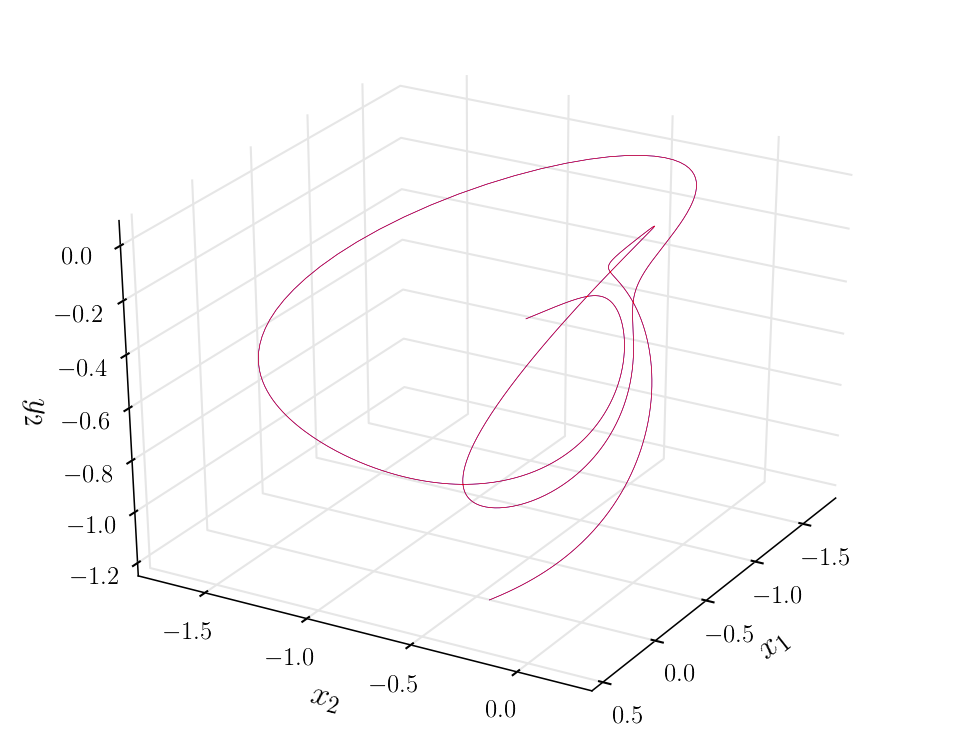
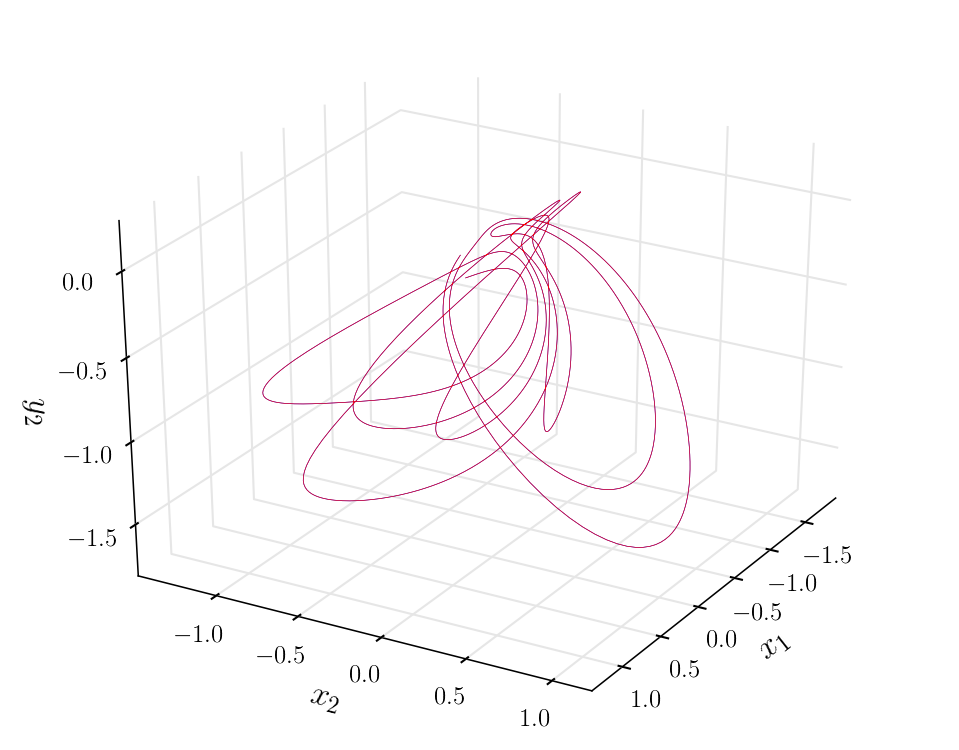
found 50 rpo, committing code and data

diff --git a/blog/burak/PorterKnobloch/python/psectandretmap.py b/blog/burak/PorterKnobloch/python/psectandretmap.py
@@ -13,7 +13,7 @@
 import numpy as np
 from scipy import interpolate, integrate
 from scipy.misc import derivative
-from scipy.optimize import newton
+from scipy.optimize import newton, fsolve
 
 from pylab import figure, plot, xlabel, ylabel, grid, hold, legend, title, savefig
 from matplotlib.font_manager import FontProperties
@@ -51,14 +51,25 @@ if compute:
 else:
 	ps = np.loadtxt('data/psectslice.dat')
 
-#Write non-zero values on a (:,3) array:
-ps3D = np.array([ps[:,1], ps[:,3], ps[:,4]],float).transpose()
-#Calculate positions relative to the section point:
-psrel = ps3D -  sectp3D
 #Generate the matrix with the basis of Poincare section hyperplane:
-psectbasis = np.array([unstabledir,vaux,nhat3D],float)
-#Project Poincare section onto section basis:
-psectprojected = np.dot(psectbasis,psrel.transpose()).transpose()
+psbasis = np.array([unstabledir,vaux,nhat3D],float)	
+
+def psxhat2ps2D(ps, psectbasis):
+		
+	#Write non-zero values on a (:,3) array:
+	if np.size(ps, 0)==5:
+		ps3D = np.array([ps[1], ps[3], ps[4]],float)
+	else:
+		ps3D = np.array([ps[:,1], ps[:,3], ps[:,4]],float).transpose()
+		
+	#Calculate positions relative to the section point:
+	psrel = ps3D -  sectp3D
+	#Project Poincare section onto section basis:
+	psectprojected = np.dot(psectbasis,psrel.transpose()).transpose()
+	
+	return psectprojected
+
+psectprojected = psxhat2ps2D(ps, psbasis)
 
 sortedindices = np.argsort(psectprojected[:,0])
 psectsorted = np.array(psectprojected[sortedindices, :],float)
@@ -181,7 +192,7 @@ def psrelproj2xhat(pxrel, pyrel):
 	'''
 	psrelproj3D = np.array([pxrel, pyrel, 0], float)
 	
-	psrel3D = np.dot(psectbasis.transpose(), psrelproj3D)
+	psrel3D = np.dot(psbasis.transpose(), psrelproj3D)
 		
 	ps3D = psrel3D + sectp3D
 	
@@ -189,7 +200,42 @@ def psrelproj2xhat(pxrel, pyrel):
 	
 	return ps	
 
+def rpops(ps2D, ncycle, Tapproximate):
 
+	x = psrelproj2xhat(ps2D[0], ps2D[1])
+	abserr = 1.0e-14
+	relerr = 1.0e-12
+	stoptime = Tapproximate*1.1
+	
+	numpoints = int(stoptime/0.01 + 1.0)
+	xphi0=[x[0], x[1], x[2], x[3], 0]
+
+	t = np.linspace(0,stoptime,numpoints)
+	
+	xsol = onslicesolver.integrate(xphi0, pars, t, abserror=abserr, relerror=relerr)
+	xhat = np.append(np.array([t]).transpose(), xsol, axis=1)
+	#print xhat
+	
+	ps=psectslice.computeps(xhat, sectp, nhat, direction,  p=pars)
+	#print "ncycle = ", ncycle
+	#print ps 
+	
+	if np.size(ps, 0) > ncycle:
+		psf = ps[ncycle,0:5]
+	else:
+		tdiff = ps[:, 0]-Tapproximate
+		itdiffmin = np.argmin(tdiff)
+		psf = ps[itdiffmin, 0:5]
+	
+	#print psf
+	#print "size(psf,0) = ", np.size(psf, 0)
+	
+	ps2Df = psxhat2ps2D(psf,psbasis)[0:2]
+	
+	#print "ps2Df = ", ps2Df
+	
+	return ps2Df - ps2D
+	
 #Number of RPOs to look for:
 nrpo = 50;
 nretmap = 1;
@@ -228,6 +274,7 @@ scandidates = scandidates[1:len(scandidates), :]
 #Find psect intersections corresponding to the arclengths of RPO candidates:
 
 rpocandidatesxt = np.zeros([nrpo, 5])
+rpocandidatespsnt = np.zeros([nrpo, 4])
 
 for i in range(nrpo):
 	#Guessing the initial point:
@@ -236,36 +283,55 @@ for i in range(nrpo):
 	
 	pxrpo = newton(arclength2psectrel, p0x, args=(scandidates[i, 0],))
 	pyrpo = interpolate.splev(pxrpo, tckpsect)
+	
 	rpoxhat = psrelproj2xhat(pxrpo, pyrpo)
 	
 	inotsorted = sortedindices[i0]
-	trpo = ps[inotsorted + scandidates[i,1] ,0] - ps[inotsorted ,0]
+	nretmap = scandidates[i,1]
+	trpo = ps[inotsorted + nretmap,0] - ps[inotsorted ,0]
 	
 	rpoxhatt = np.append(rpoxhat, trpo)
+	
+	rpocandidatespsnt[i,:] = [pxrpo, pyrpo, nretmap, trpo] 
 	
 	rpocandidatesxt[i,:] = rpoxhatt 
 
 #rposxt = np.zeros([nrpo, 5]) 
-rpos3D = np.zeros([nrpo, 3]) 
+#rpos3D = np.zeros([nrpo, 3]) 
 
 np.savetxt('data/rpocandidates.dat', rpocandidatesxt)
 
-for i in range(nrpo):
-	rpocandidate3D = np.array([rpocandidatesxt[i,0],
-							   rpocandidatesxt[i,2],
-							   rpocandidatesxt[i,3],
-							   rpocandidatesxt[i,4]])
-	#rposxt[i,:] = rpo.findrpo(rpocandidatesxt[i,0:4], rpocandidatesxt[i,4])
-	rpos3D[i,:] = rpo.findrpo(rpocandidate3D[0:3], rpocandidate3D[3])
-	print rpos3D
+#for i in range(nrpo):
+	#rpocandidate3D = np.array([rpocandidatesxt[i,0],
+							   #rpocandidatesxt[i,2],
+							   #rpocandidatesxt[i,3],
+							   #rpocandidatesxt[i,4]])
+	##rposxt[i,:] = rpo.findrpo(rpocandidatesxt[i,0:4], rpocandidatesxt[i,4])
+	#rpos3D[i,:] = rpo.findrpo(rpocandidate3D[0:3], rpocandidate3D[3])
+	#print rpos3D
 	
-	#np.savetxt('data/rpo.dat', rposxt)
+	##np.savetxt('data/rpo.dat', rposxt)
 
-np.savetxt('data/rpo3D.dat', rpos3D)
+#np.savetxt('data/rpo3D.dat', rpos3D)
+
+rpos2D = np.zeros([nrpo, 2]) 
+rposxhat = np.zeros([nrpo, 4]) 
+
+for i in range(nrpo):
+	
+	rpos2D[i, :] = fsolve(rpops, rpocandidatespsnt[i, 0:2], args=(rpocandidatespsnt[i, 2], rpocandidatespsnt[i, 3]))
+	print rpos2D[i, :]
+	print rpops(rpos2D[i, :], rpocandidatespsnt[i, 2], rpocandidatespsnt[i, 3])
+	
+	rposxhat[i,:] = psrelproj2xhat(rpos2D[i,0], rpos2D[i,1])
+
+np.savetxt('data/rposxhat.dat', rposxhat)
+	
+'''
 #Plotting:
 
 lw = 1.5
-'''
+
 #Plot Poincare section:
 figure(1, figsize=(8, 8))
 
@@ -313,4 +379,5 @@ savefig('image/retmaponslice.png', bbox_inches='tight', dpi=100)
 
 plt.tight_layout()
 plt.show()
+
 '''

diff --git a/blog/burak/PorterKnobloch/python/onslicesolver.py b/blog/burak/PorterKnobloch/python/onslicesolver.py
@@ -86,10 +86,10 @@ if __name__ == "__main__":
 	#y20=3.09876107e-02
 	
 	#RPO2:
-	x10= 5.890763705285380070e-01  
+	x10= 4.908996826252001178e-01
 	y10=0
-	x20= 4.306969121573418768e-02
-	y20=3.269608838458908096e-02
+	x20= 7.958815997234316986e-02
+	y20=2.660604135769798623e-02
    
 
 	#Xi
@@ -102,9 +102,9 @@ if __name__ == "__main__":
 	abserr = 1.0e-14
 	relerr = 1.0e-12
 	#stoptime = 1000
-	stoptime = 14.6542590455
+	stoptime = 25.742775085
 	#numpoints = 100000+1
-	numpoints = 1466
+	numpoints = 2575
 	
 	# Create the time samples for the output of the ODE solver:
 	t = [stoptime * float(i) / (numpoints - 1) for i in range(numpoints)]

diff --git a/blog/burak/PorterKnobloch/python/sspsolver.py b/blog/burak/PorterKnobloch/python/sspsolver.py
@@ -38,17 +38,17 @@ if __name__ == "__main__":
 	x20=-0.38626706847930564
 	y20=0.0702043939917171
 	
-	x10=0.55295026730571872
-	y10=0.00061704116566256757
-	x20=0.0092622753569187727
-	y20=0.038824100925031621
+	x10= 4.908996826252001178e-01
+	y10=0
+	x20= 7.958815997234316986e-02
+	y20=2.660604135769798623e-02
 	
 	
 	# ODE solver parameters
 	abserr = 1.0e-8
 	relerr = 1.0e-6
-	stoptime = 10.464879781447815
-	numpoints = 1046+1
+	stoptime = 25.742775085
+	numpoints = 2574+1
 
 	# Create the time samples for the output of the ODE solver:
 	t = [stoptime * float(i) / (numpoints - 1) for i in range(numpoints)]
